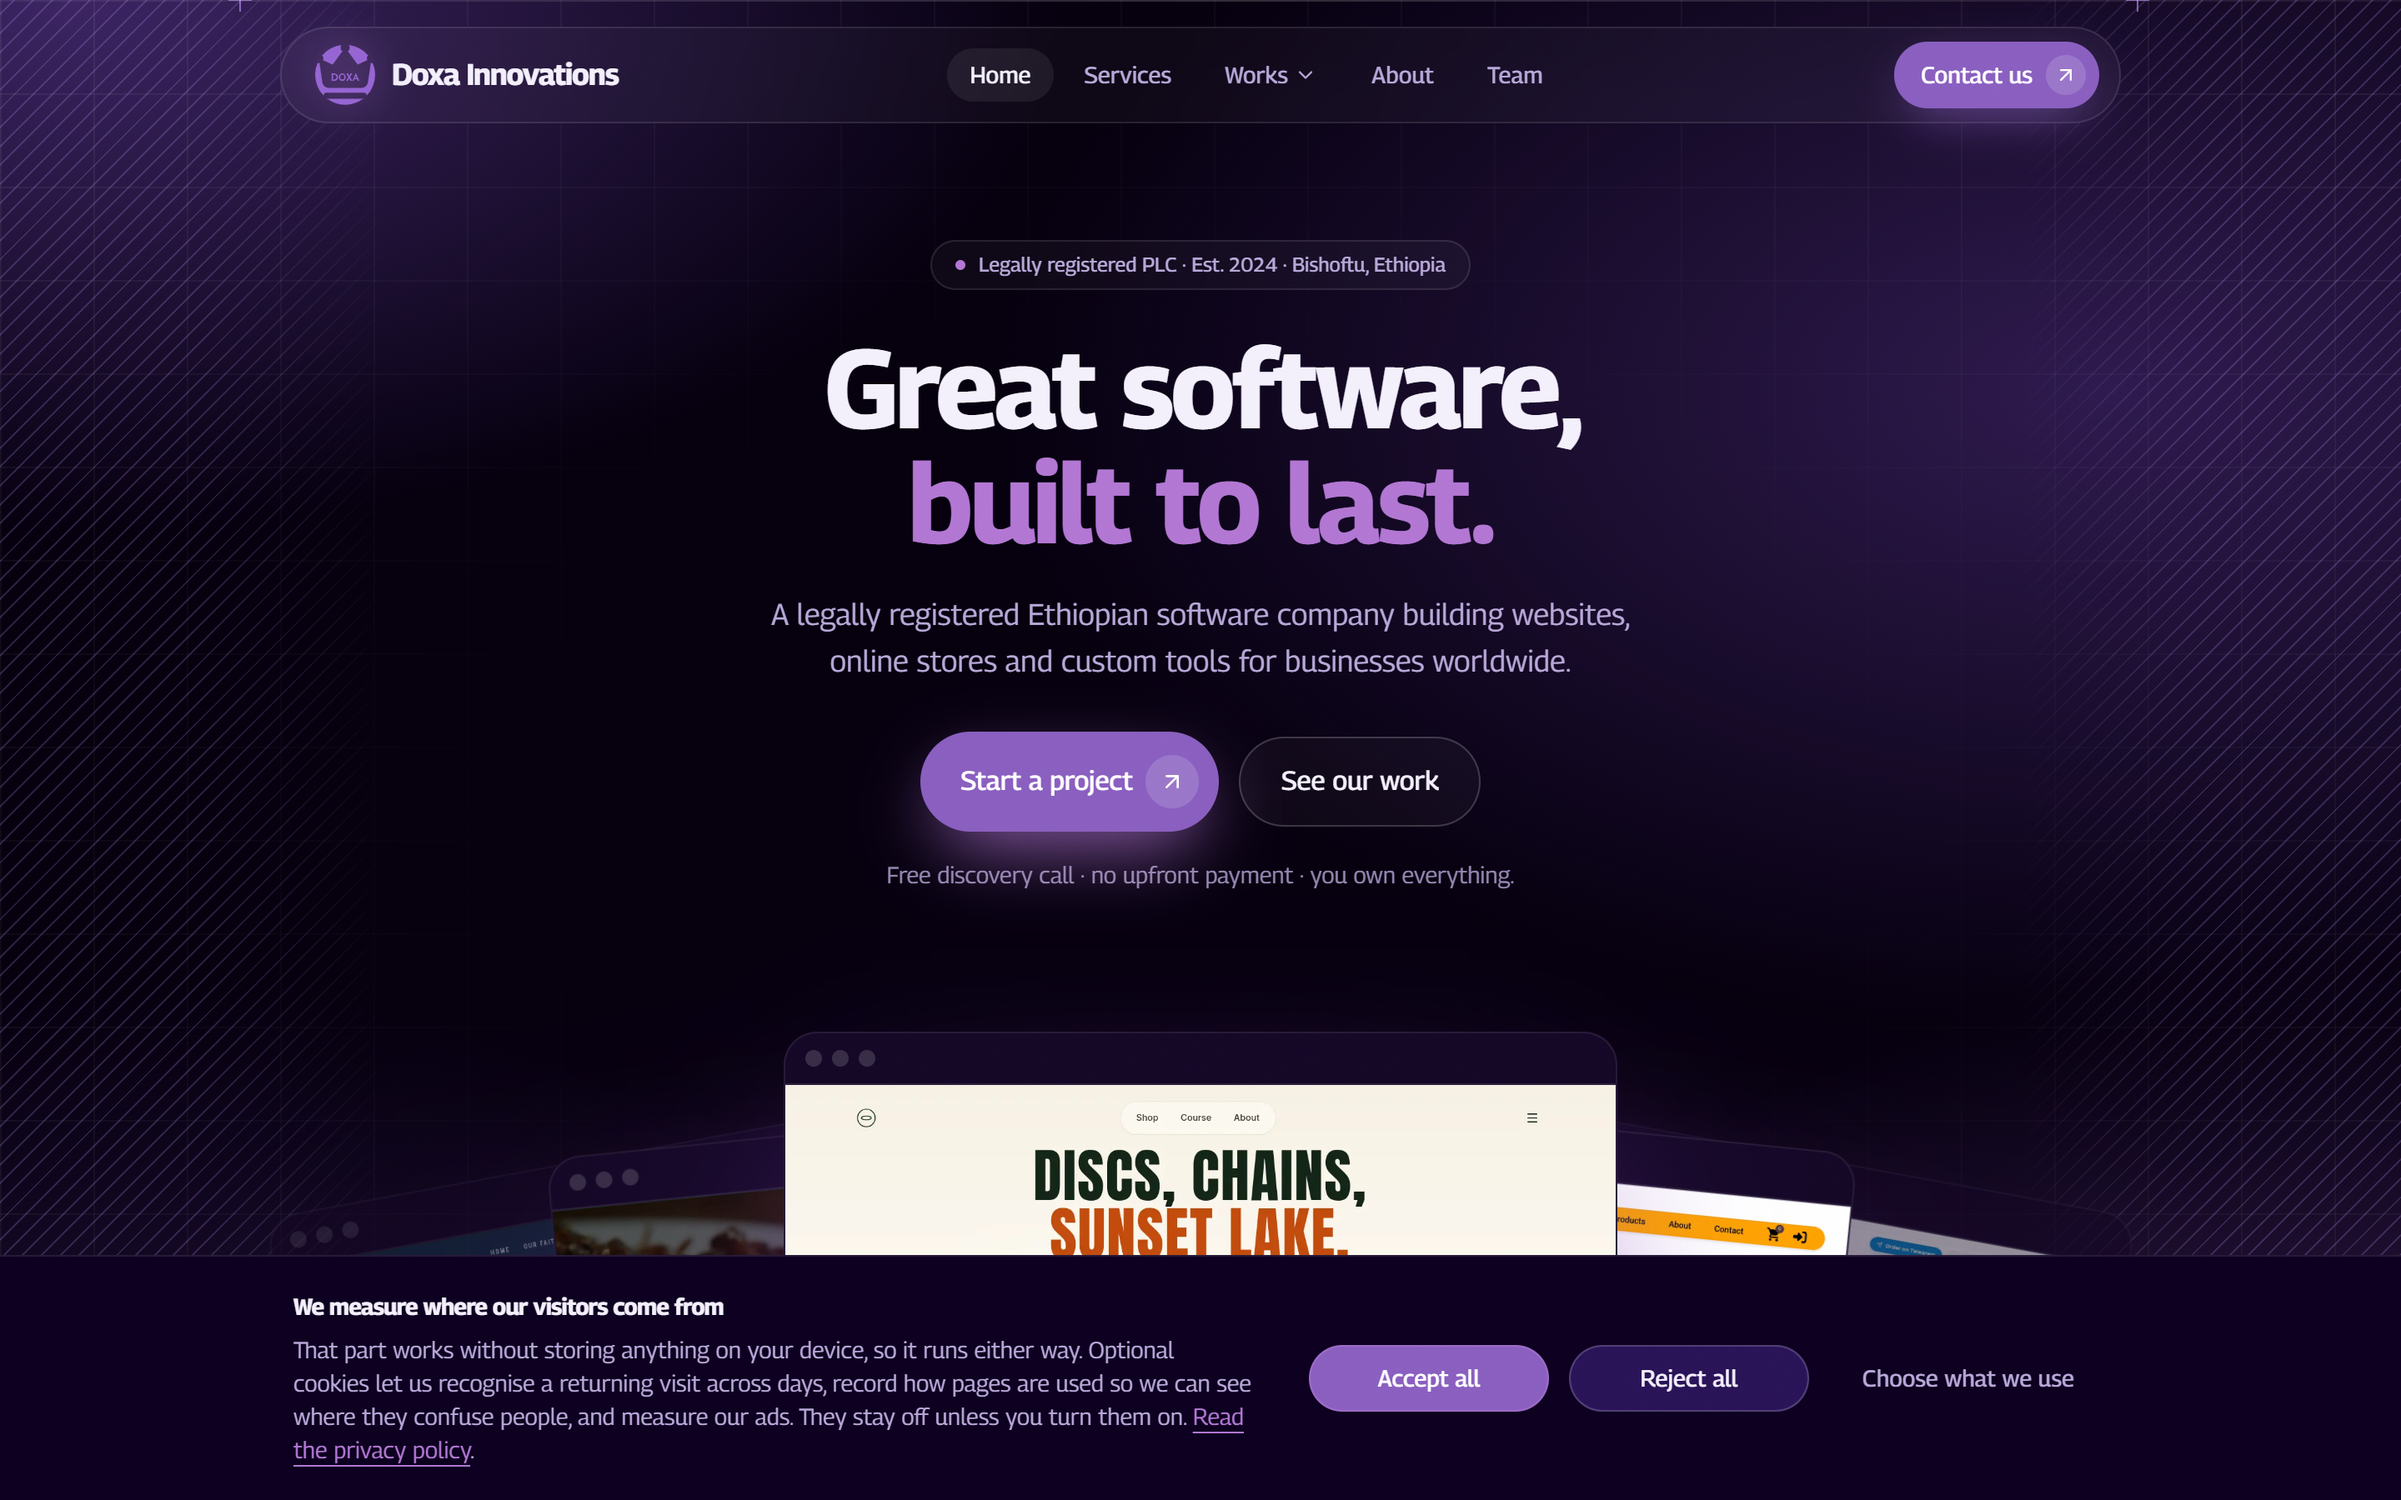
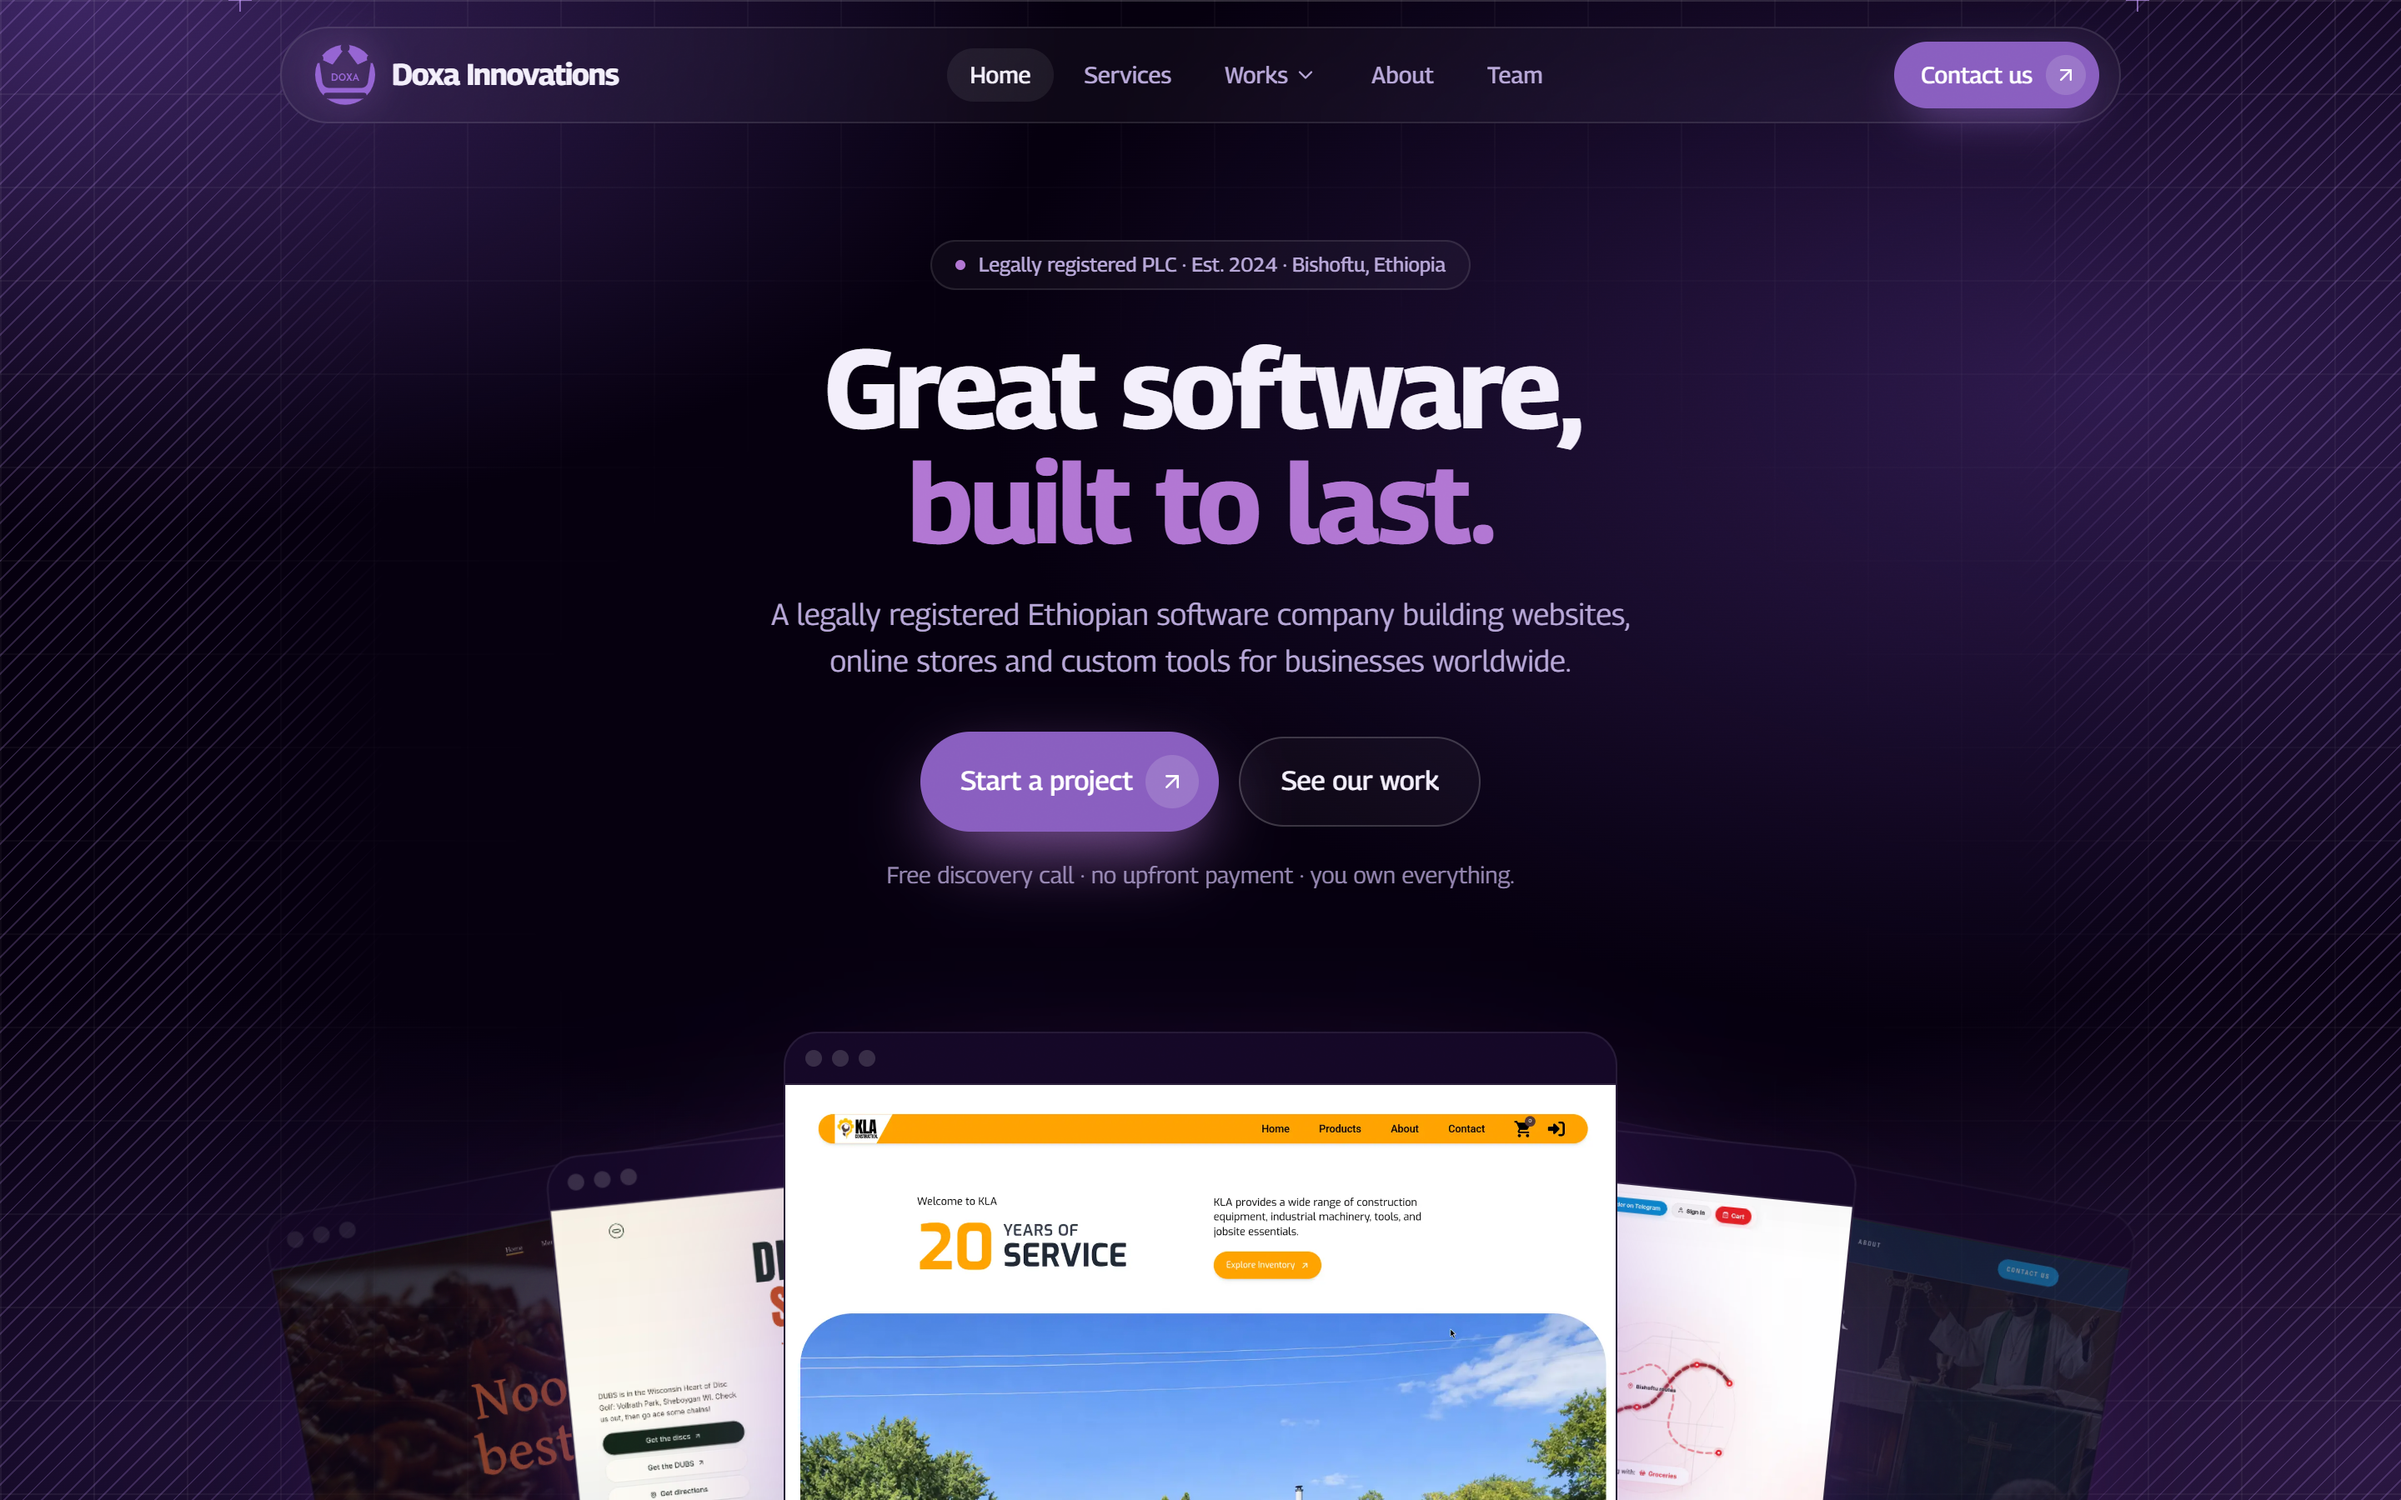
content(work): FIDA Website screens + clean Doxa reshoot
Round 2 of the screenshot pipeline:

- Doxa home reshot with a CSS cookie-banner suppressor (any element
  with cookie/consent in class/id/aria-label is display:none before
  capture). Full "Great software, built to last." hero now unobscured
- FIDA Website (fidadelivery.com) captured 3 real surfaces: home
  (hero + coverage-map illustration + Fida Delivery info card), the
  partners page (18 real Bishoftu partners with photos and distance
  labels — Bama Taste, Carmel Kitchen, Classic Noodle, Cochin Fried
  Chicken visible), and about (real 200+ resident field-survey
  founding story with metric strip)
- The /explore route only ships a Google Maps canvas which blocks
  headless browsers; falling back to the existing hand-drawn Bishoftu
  vector coverage-map poster as the 4th tile in the strip
- fida-website.mdx: real metric replaces the "[N] coverage requests
  captured" placeholder ("18 partners · fidadelivery.com"), canonical
  live URL updated from fidadelivery.et (301) → fidadelivery.com,
  subtitle rewritten to lead with real numbers
- projects.ts card subtitle + metric mirrored to match

scripts/shoot-round2.mjs is the generic runner and shoot-explore.mjs
the one-off retry that gave the map a longer boot window.

Changed region(s): [[0.0, 0.7156, 1.0, 1.0]]

diff --git a/src/lib/projects.ts b/src/lib/projects.ts
@@ -65,11 +65,11 @@ export const projects: readonly Project[] = [
     slug: "fida-website",
     title: "FIDA Website",
     subtitle:
-      "The front door most first-time users see before installing FIDA — marketing site with live coverage map plus a Telegram Mini App for the messenger every Ethiopian already has open.",
+      "The front door most first-time users see before installing FIDA — 18 real Bishoftu partners indexed, live MapLibre coverage map, plus a Telegram Mini App for the messenger every Ethiopian already has open.",
     year: "2026",
     role: "Designer & engineer",
     stack: ["Next.js 16", "React 19", "Tailwind v4", "MapLibre GL", "GSAP"],
-    metric: "Live · fidadelivery.et",
+    metric: "18 partners · fidadelivery.com",
     status: "case-study",
     span: "default",
     image: "fida-website",
